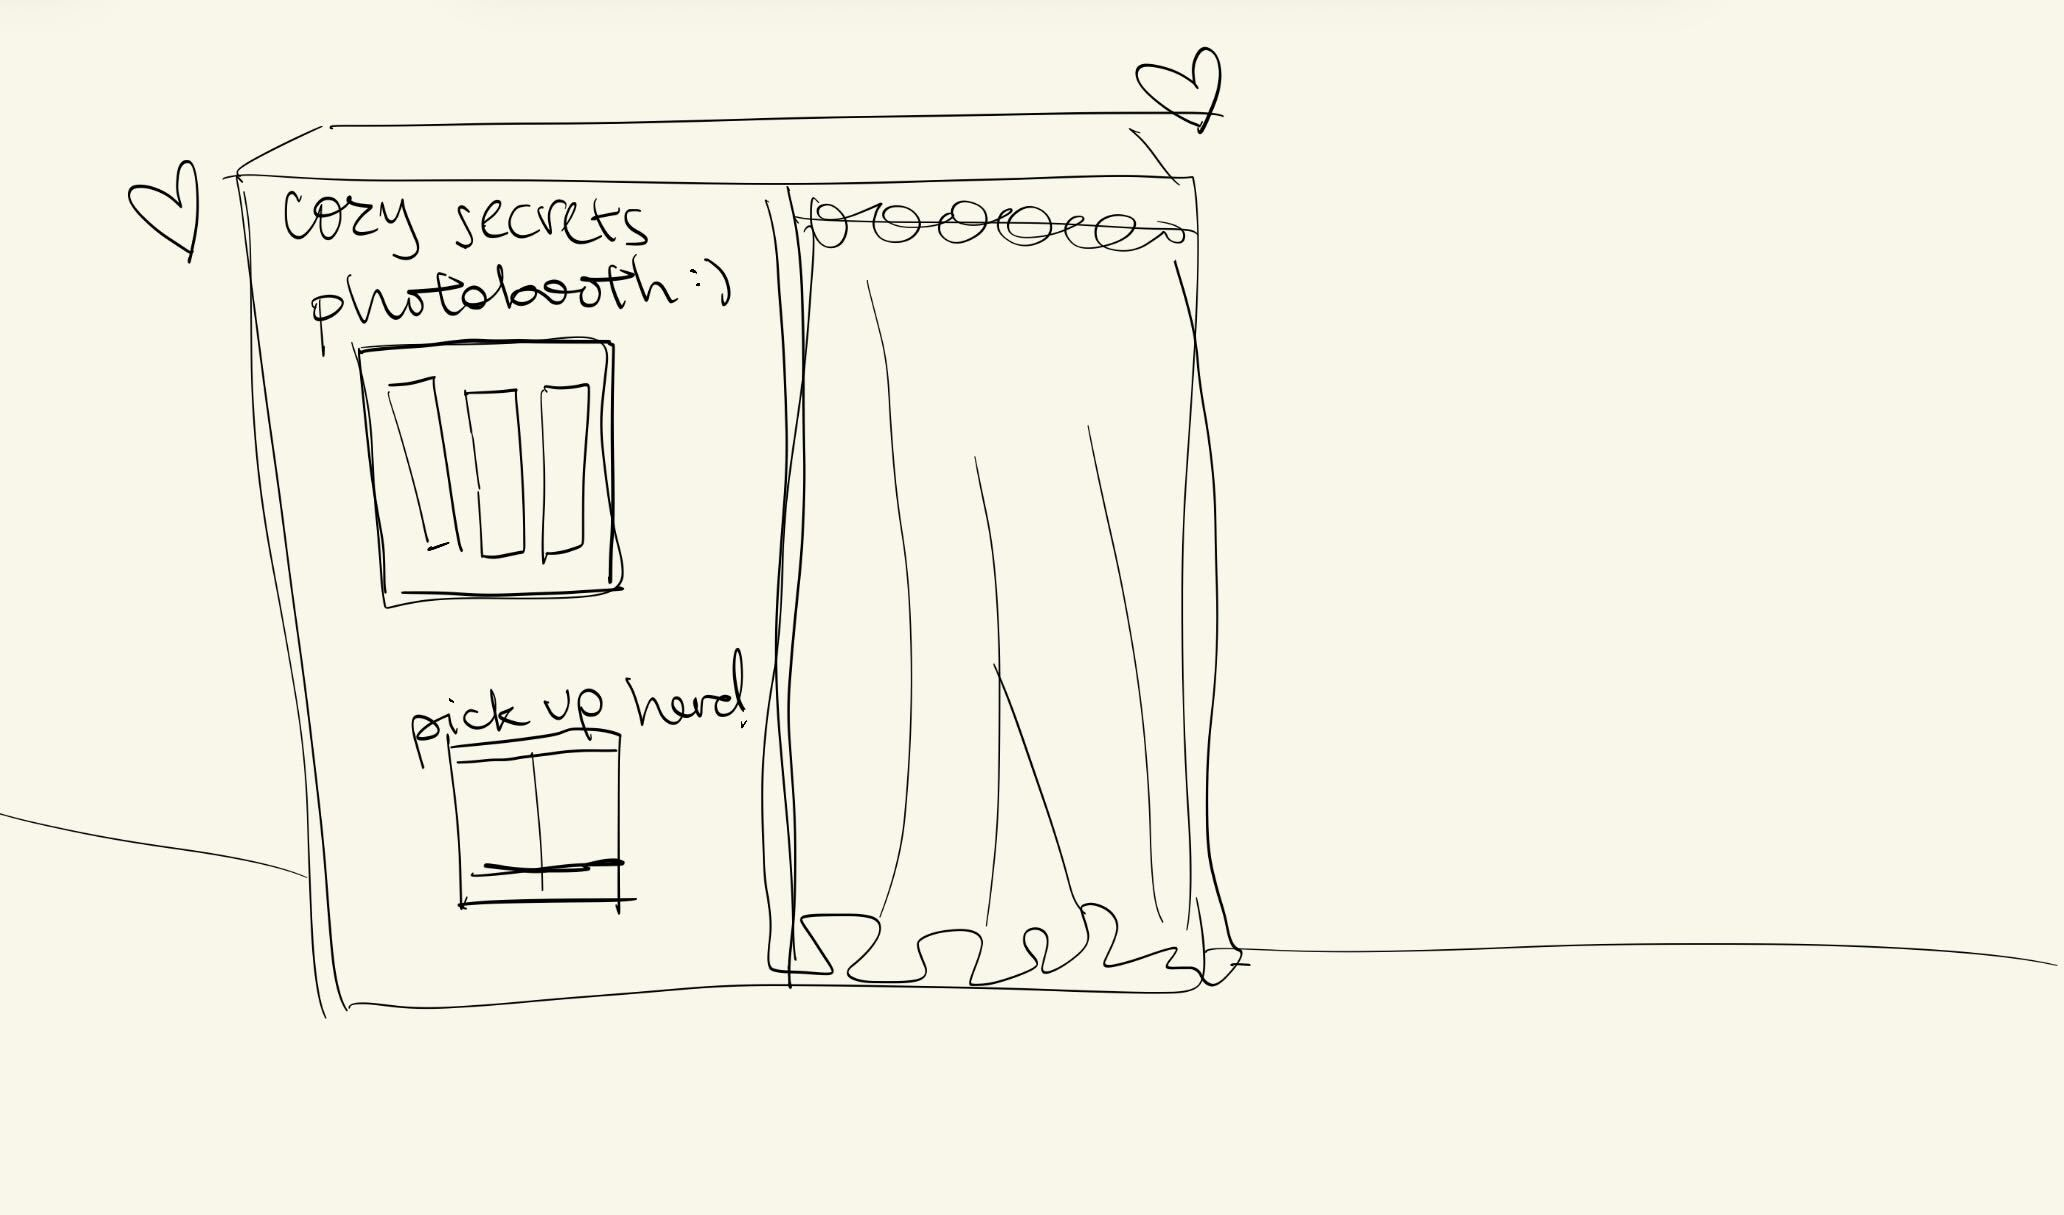
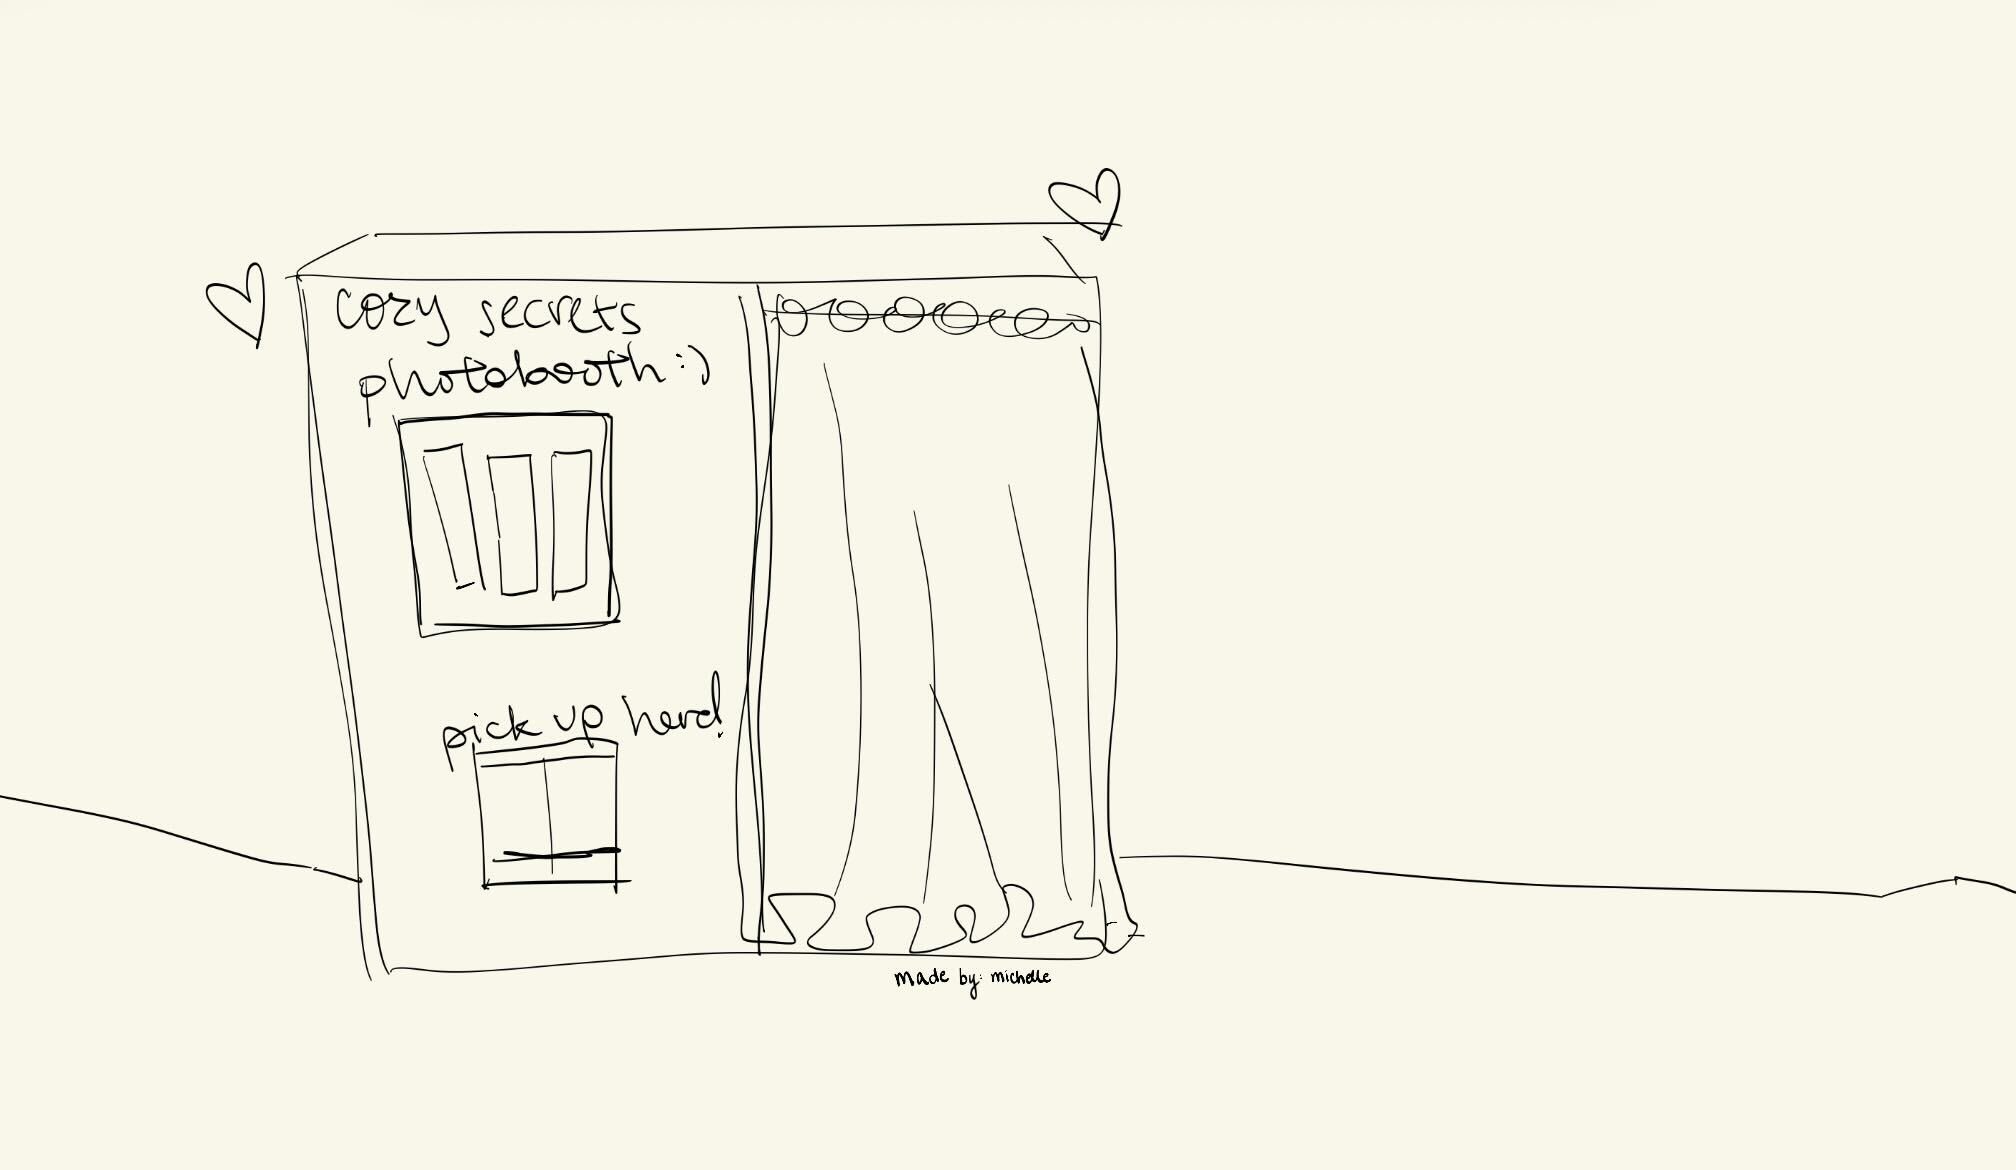
added ex window on home page

diff --git a/src/Home.js b/src/Home.js
@@ -1,14 +1,32 @@
-import React from "react";
+import React, { useState } from "react";
 import { useNavigate } from "react-router-dom";
 import homeBg from "./images/backgrounds/home_bg.jpg";
 import startButton from "./images/buttons/start-button.png";
+import exampleButton from "./images/buttons/photobooth-example-button.jpg";
+import exWindowButton from "./images/buttons/ex-window-button.png";
+import example1 from "./images/examples/example1.jpg";
+import example2 from "./images/examples/example2.jpg";
+import example3 from "./images/examples/example3.jpg";
 
 export default function Home() {
   const navigate = useNavigate();
+  const [showExamples, setShowExamples] = useState(false);
+
+  const handleExWindowClick = (e) => {
+    const rect = e.currentTarget.getBoundingClientRect();
+    const x = e.clientX - rect.left;
+    const y = e.clientY - rect.top;
+
+    // Check if click is near the X button (at approximately 553, 27)
+    // Adding a clickable area of about 40x40 pixels around it
+    if (x >= 795 && x <= 855 && y >= 10 && y <= 70) {
+      setShowExamples(false);
+    }
+  };
 
   return (
     <div
-      className="min-h-screen bg-cover bg-center flex items-center justify-center"
+      className="min-h-screen bg-cover bg-center relative"
       style={{
         backgroundImage: `url(${homeBg})`,
         backgroundSize: "cover",
@@ -22,10 +40,77 @@ export default function Home() {
         src={startButton}
         alt="Start Photobooth"
         onClick={() => navigate("/photobooth")}
-        className="cursor-pointer transition-transform hover:scale-105 active:scale-95"
-        style={{ width: "auto", height: "150px" }}
+        className="absolute cursor-pointer transition-transform hover:scale-105 active:scale-95"
+        style={{ right: "150px", top: "300px", width: "auto", height: "150px" }}
         draggable="false"
       />
+
+      <img
+        src={exampleButton}
+        alt="View Examples"
+        onClick={() => setShowExamples(true)}
+        className="absolute cursor-pointer transition-transform hover:scale-105 active:scale-95"
+        style={{ left: "297px", top: "260px", width: "auto", height: "185px" }}
+        draggable="false"
+      />
+
+      {showExamples && (
+        <div className="fixed inset-0 bg-black bg-opacity-50 flex items-center justify-center z-50">
+          <div className="relative">
+            <img
+              src={exWindowButton}
+              alt="Examples Window"
+              onClick={handleExWindowClick}
+              className="cursor-pointer"
+              style={{ width: "910px", height: "auto" }}
+              draggable="false"
+            />
+
+            {/* Example images positioned on top */}
+            <img
+              src={example1}
+              alt="Example 1"
+              className="absolute transition-all duration-300 hover:rotate-[10deg] hover:drop-shadow-2xl"
+              style={{
+                left: "220px",
+                top: "80px",
+                width: "150px",
+                height: "auto",
+                transform: "translateX(-50%) rotate(-11deg)",
+              }}
+              draggable="false"
+            />
+
+            <img
+              src={example2}
+              alt="Example 2"
+              className="absolute transition-all duration-300 hover:rotate-[10deg] hover:drop-shadow-2xl"
+              style={{
+                left: "450px",
+                top: "80px",
+                width: "150px",
+                height: "auto",
+                transform: "translateX(-50%)",
+              }}
+              draggable="false"
+            />
+
+            <img
+              src={example3}
+              alt="Example 3"
+              className="absolute transition-all duration-300 hover:rotate-[10deg] hover:drop-shadow-2xl"
+              style={{
+                left: "640px",
+                top: "80px",
+                width: "150px",
+                height: "auto",
+                transform: "translateX(-50%) rotate(13deg)",
+              }}
+              draggable="false"
+            />
+          </div>
+        </div>
+      )}
     </div>
   );
 }

diff --git a/src/PhotoboothApp.js b/src/PhotoboothApp.js
@@ -31,6 +31,7 @@ import sticker11 from "./images/stickers/smiskiSticker.png";
 import sticker12 from "./images/stickers/smiskiSticker.png";
 
 import backButton from "./images/buttons/back-button.png";
+import downloadButton from "./images/buttons/download-button.png";
 
 const THEMES = {
   smiski: {
@@ -478,14 +479,19 @@ export default function PhotoboothApp() {
 
         {/* Download Button */}
         {displayImages.length > 0 && (
-          <button
+          <img
+            src={downloadButton}
+            alt="Download Strip"
             onClick={downloadStrip}
-            className="absolute bg-green-500 hover:bg-green-600 text-white font-bold py-4 px-6 rounded-2xl flex items-center justify-center gap-3 border-4 border-green-700 shadow-lg transition-all active:translate-y-1"
-            style={{ left: "900px", bottom: "50px", width: "200px" }}
-          >
-            <Download size={24} />
-            Download Strip
-          </button>
+            className="absolute cursor-pointer transition-transform hover:scale-105 active:scale-95"
+            style={{
+              left: "1050px",
+              bottom: "50px",
+              width: "auto",
+              height: "100px",
+            }}
+            draggable="false"
+          />
         )}
 
         {/* Preview Section - removed "Preview" text */}
@@ -570,13 +576,13 @@ export default function PhotoboothApp() {
         <button
           onClick={() => (window.location.href = "/")}
           className="absolute"
-          style={{ left: "50px", bottom: "50px" }}
+          style={{ left: "40px", bottom: "10px" }}
         >
           <img
             src={backButton}
             alt="Back to Home"
             className="cursor-pointer transition-transform hover:scale-105 active:scale-95"
-            style={{ width: "auto", height: "60px" }}
+            style={{ width: "120px", height: "auto" }}
             draggable="false"
           />
         </button>
